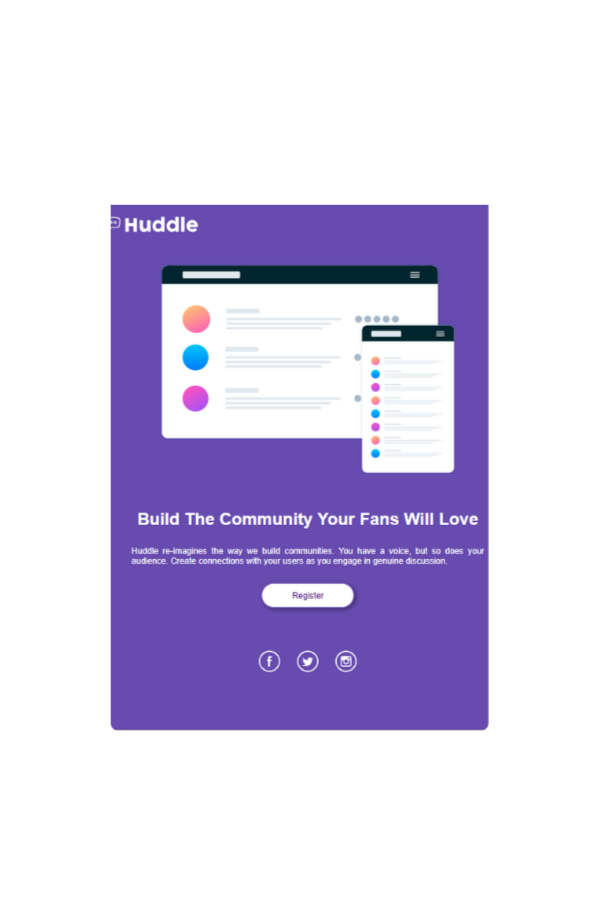
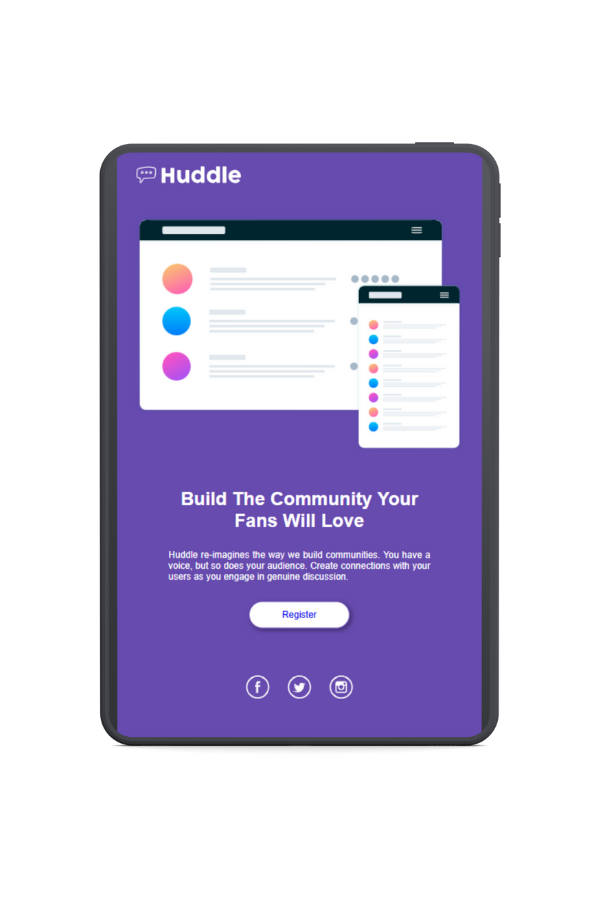
Paquetes y links actualizados

Changed region(s): [[0.15, 0.1556, 0.84, 0.84]]

diff --git a/index.html b/index.html
@@ -51,10 +51,10 @@
 <!------------------------------- Aqui comienza el Hero ------------------------------->
     <section class="hero">
         <div class="contenedor-wrapper">
-            <figure class="imagen-hero">
+            <figure class="imagen-hero" id="imagen-hero">
                 <img src="imagenes/Imagen_Hero1.png" alt="Imagen Hero" width="350px" height="auto">
             </figure>
-            <div class="texto-hero">
+            <div class="texto-hero" id="texto-hero">
                 <h1>Tu Negocio Listo para Dominar la Web.</h1>
                 <p>Hola, soy <strong>EMwebdesigner</strong>, Desarrollador Web. Transformo ideas de negocio en plataformas 
                     digitales visibles, dinámicas y accesibles que funcionan perfectamente en cualquier 
@@ -106,40 +106,58 @@
 
             <section id="precios-paquetes">
                 <h2>Precios y Paquetes</h2>
-                <p>Elige el paquete perfecto para ti y comienza tu viaje digital hoy mismo.</p>
+                <p class="subtitulo-paquetes">Elige el paquete perfecto para ti y comienza tu viaje digital hoy mismo.</p>
                 <div class="bloques-paquetes">
                     <div class="paquete">
-                        <h3>Básico</h3>
-                        <p>$300</p>
-                        <ul>
-                            <li>Diseño Web Personalizado</li>
-                            <li>Hasta 5 Páginas</li>
-                            <li>Optimización SEO Básica</li>
-                            <li>Soporte por 1 Mes</li>
-                        </ul>
-                        <a href="#" class="btn-paquete">Seleccionar</a>
+
+                        <div class="contenido-paquete">
+                            <h3>Básico</h3>
+                            <p class="precio">49.99$</p>
+                            <ul>
+                                <li>Pagina Web/Landing Page</li>
+                                <li>Diseño Web Personalizado</li>
+                                <li>Hasta 8 secciones</li>
+                                <li>Optimización SEO Básica</li>
+                                <li>Administracion y carga de contenido en Hosting</li>
+                                <li>Seguridad Certificado SSL</li>
+                                <li>Copia y Actualizaciones de Seguridad</li>
+                            </ul>
+                            <h4 class="mtto">Mantenimiento mensual (Alojamiento  + Cambios personalizados): 14.99$</h4>
+                        </div>
+                        <a href="https://wa.link/l1xqnm" class="btn-paquete" target="_blank" rel="noopener noreferrer">Seleccionar</a>
+
                     </div>
                     <div class="paquete">
-                        <h3>Estándar</h3>
-                        <p>$600</p>
-                        <ul>
-                            <li>Diseño Web Avanzado</li>
-                            <li>Hasta 10 Páginas</li>
-                            <li>Optimización SEO Completa</li>
-                            <li>Soporte por 3 Meses</li>
-                        </ul>
-                        <a href="#" class="btn-paquete">Seleccionar</a>
+
+                        <div class="contenido-paquete">
+                            <h3>Estándar</h3>
+                            <p class="precio">179.99$</p>
+                            <ul>
+                                <li>Paquete Básico</li>
+                                <li>Diseño Web Avanzado</li>
+                                <li>Hasta 5 páginas completas</li>
+                                <li>Optimización SEO Completa (configuración de títulos, descripciones y URLs amigables)</li>
+                                <li>Alojamiento Web (Hosting) de alta velocidad por 1 mes GRATIS.</li>
+                            </ul>
+                            <h4 class="mtto">Mantenimiento mensual (Alojamiento  + Cambios personalizados): 24.99$</h4>
+                        </div>
+                        <a href="https://wa.link/tahb53" class="btn-paquete" target="_blank" rel="noopener noreferrer">Seleccionar</a>
+                        
                     </div>
                     <div class="paquete">
-                        <h3>Premium</h3>
-                        <p>$1000</p>
-                        <ul>
-                            <li>Diseño Web Premium</li>
-                            <li>Páginas Ilimitadas</li>
-                            <li>Estrategia de Marketing Digital</li>
-                            <li>Soporte por 6 Meses</li>
-                        </ul>
-                        <a href="#" class="btn-paquete">Seleccionar</a>
+                        <div class="contenido-paquete">
+                            <h3>Premium</h3>
+                            <p class="precio">329.99$</p>
+                            <ul>
+                                <li>Paquete Estándar</li>
+                                <li>Diseño Web Premium</li>
+                                <li>Hasta 10 páginas completas</li>
+                                <li>Estrategia de Marketing Digital</li>
+                                <li>Alojamiento Web (Hosting) de alta velocidad por 3 mes GRATIS</li>
+                            </ul>
+                            <h4 class="mtto">Mantenimiento mensual (Alojamiento  + Cambios personalizados): 42.99$</h4>
+                        </div>
+                        <a href="https://wa.link/0ur04m" class="btn-paquete" target="_blank" rel="noopener noreferrer">Seleccionar</a>
                     </div>
                 </div>
             </section>
@@ -181,6 +199,12 @@
                     <a href="https://wa.link/rl7ps6" target="_blank" rel="noopener noreferrer" data-icon="WhatsApp" aria-label="WhatsApp">
                         <svg fill="currentColor" width="32px" height="32px" viewBox="0 0 16 16" xmlns="http://www.w3.org/2000/svg"><g id="SVGRepo_bgCarrier" stroke-width="0"></g><g id="SVGRepo_tracerCarrier" stroke-linecap="round" stroke-linejoin="round"></g><g id="SVGRepo_iconCarrier"><path d="M11.42 9.49c-.19-.09-1.1-.54-1.27-.61s-.29-.09-.42.1-.48.6-.59.73-.21.14-.4 0a5.13 5.13 0 0 1-1.49-.92 5.25 5.25 0 0 1-1-1.29c-.11-.18 0-.28.08-.38s.18-.21.28-.32a1.39 1.39 0 0 0 .18-.31.38.38 0 0 0 0-.33c0-.09-.42-1-.58-1.37s-.3-.32-.41-.32h-.4a.72.72 0 0 0-.5.23 2.1 2.1 0 0 0-.65 1.55A3.59 3.59 0 0 0 5 8.2 8.32 8.32 0 0 0 8.19 11c.44.19.78.3 1.05.39a2.53 2.53 0 0 0 1.17.07 1.93 1.93 0 0 0 1.26-.88 1.67 1.67 0 0 0 .11-.88c-.05-.07-.17-.12-.36-.21z"></path><path d="M13.29 2.68A7.36 7.36 0 0 0 8 .5a7.44 7.44 0 0 0-6.41 11.15l-1 3.85 3.94-1a7.4 7.4 0 0 0 3.55.9H8a7.44 7.44 0 0 0 5.29-12.72zM8 14.12a6.12 6.12 0 0 1-3.15-.87l-.22-.13-2.34.61.62-2.28-.14-.23a6.18 6.18 0 0 1 9.6-7.65 6.12 6.12 0 0 1 1.81 4.37A6.19 6.19 0 0 1 8 14.12z"></path></g></svg>
                     </a>
+                    <a href="https://github.com/EMwebdesigner?tab=repositories" target="_blank" rel="noopener noreferrer" data-icon="GitHub" aria-label="GitHub">
+                        <svg width="32px" height="32px" viewBox="0 0 48 48" version="1.1" id="Shopicons" xmlns="http://www.w3.org/2000/svg" x="0" y="0" xml:space="preserve" fill="#ffffff"><g id="SVGRepo_bgCarrier" stroke-width="0"></g><g id="SVGRepo_tracerCarrier" stroke-linecap="round" stroke-linejoin="round"></g><g id="SVGRepo_iconCarrier"> <style>.st1{fill:#ffffff}.st2,.st3{fill:none;stroke:#ffffff;stroke-width:4;stroke-miterlimit:10}.st3{stroke-width:6}</style> <g id="github_00000178918564504449926280000008731996709616696990_"> <path d="M0 .011h48v48H0v-48z" fill="none"></path> <path d="M30 44.004v-10c0-.884-.197-1.722-.542-2.479.825-.167 1.65-.358 2.472-.601 2.527-.746 6.154-3.839 7.226-6.863 1.188-3.356 1.188-6.76 0-10.116l-.001-.001c-.213-.603-.537-1.211-.998-1.868.848-3.154.253-5.792.225-5.915l-.365-1.564-1.606.019c-.15.002-3.48.063-6.724 1.955a29.635 29.635 0 0 0-11.371 0c-3.243-1.892-6.573-1.953-6.724-1.955l-1.608-.019-.365 1.564c-.028.123-.623 2.761.225 5.915-.461.657-.785 1.266-.999 1.869-1.187 3.356-1.187 6.76.001 10.117 1.07 3.023 4.697 6.116 7.225 6.862.822.243 1.647.434 2.472.601A5.946 5.946 0 0 0 18 34.004v1.281c-.062.036-.127.065-.187.108-.289.211-2.869 1.967-5.505.09-.93-.946-1.386-1.639-1.826-2.309-.988-1.5-1.841-2.586-4.588-3.96a2 2 0 1 0-1.789 3.579c1.991.995 2.341 1.525 3.035 2.581.515.781 1.155 1.754 2.445 3.044l.215.186c1.692 1.27 3.447 1.723 5.053 1.723A9.286 9.286 0 0 0 18 39.76v4.253l12-.009z"></path> </g> </g></svg>
+                    </a>
+                    <a href="https://app.netlify.com/teams/endertucon3/projects" target="_blank" rel="noopener noreferrer" data-icon="Netlify" aria-label="Netlify">
+                        <svg fill="#ffffff" width="32px" height="32px" viewBox="0 0 24 24" role="img" xmlns="http://www.w3.org/2000/svg"><g id="SVGRepo_bgCarrier" stroke-width="0"></g><g id="SVGRepo_tracerCarrier" stroke-linecap="round" stroke-linejoin="round"></g><g id="SVGRepo_iconCarrier"><title>Netlify icon</title><path d="M16.934 8.519a1.044 1.044 0 0 1 .303.23l2.349-1.045-2.192-2.171-.491 2.954zM12.06 6.546a1.305 1.305 0 0 1 .209.574l3.497 1.482a1.044 1.044 0 0 1 .355-.177l.574-3.55-2.13-2.234-2.505 3.852v.053zm11.933 5.491l-3.748-3.748-2.548 1.044 6.264 2.662s.053.042.032.042zm-.627.606l-6.013-2.569a1.044 1.044 0 0 1-.7.407l-.647 3.957a1.044 1.044 0 0 1 .303.731l3.633.762 3.33-3.31v-.062zM15.4 9.25L12.132 7.86a1.2 1.2 0 0 1-1.044.543h-.199L8.185 12.58l7.225-3.132v.01a.887.887 0 0 1 0-.167.052.052 0 0 0-.01-.041zm3.967 7.308l-3.195-.658a1.096 1.096 0 0 1-.46.344l-.761 4.72 4.437-4.396s-.01.02-.021.02zm-4.469-.324a1.044 1.044 0 0 1-.616-.71l-5.95-1.222-.084.136 5.398 7.81.323-.324.919-5.67s.031.022.01.011zm-6.441-2.652l5.878 1.211a1.044 1.044 0 0 1 .824-.522l.637-3.894-.135-.115-7.308 3.132a1.817 1.817 0 0 1 .104.188zm-2.464.981l-.125-.125-2.537 1.044 1.232 1.222 1.399-2.172zm1.67.397a1.368 1.368 0 0 1-.563.125 1.389 1.389 0 0 1-.45-.073l-1.544 2.245 6.765 6.702 1.19-1.18zm-.95-2.641a1.702 1.702 0 0 1 .314 0 1.378 1.378 0 0 1 .344 0l2.735-4.25a1.19 1.19 0 0 1-.334-.824 1.242 1.242 0 0 1 0-.271l-3.32-1.535-2.672 2.6zm.303-7.402l3.237 1.378a1.242 1.242 0 0 1 .835-.282 1.357 1.357 0 0 1 .397.063l2.526-3.947L11.923.041 7.016 4.854s-.01.052 0 .063zm-1.21 8.164a1.566 1.566 0 0 1 .24-.334L3.278 8.613 0 11.797l5.804 1.284zm-.262.7L.533 12.735l2.203 2.235 2.777-1.18z"></path></g></svg>
+                    </a>
                 </div>
             </div>
 
@@ -206,12 +230,12 @@
                 </ul>
             </div>
             <div class="footer-column">
-                <h3>Compañía</h3>
+                <h3>Proyectos</h3>
                 <ul class="footer-links">
-                    <li><a href="#">Sobre nosotros</a></li>
-                    <li><a href="#portafolio">Portafolio</a></li>
-                    <li><a href="https://wa.link/rl7ps6" target="_blank" rel="noopener noreferrer" data-icon="WhatsApp" aria-label="WhatsApp">Contacto</a></li>
-                    <li><a href="#">Perfil en Google</a></li>
+                    <li><a href="https://emwebdesigner.github.io/Web-Centro-Pokemon/" target="_blank" rel="noopener noreferrer">CentroPokémon</a></li>
+                    <li><a href="https://emwebdesigner.github.io/Proyecto-landing-page/#" target="_blank" rel="noopener noreferrer">Huddle subscription</a></li>
+                    <li><a href="https://emwebdesigner.github.io/LP-Newsletter-sign-up/" target="_blank" rel="noopener noreferrer">Newsletter sign-up</a></li>
+                    <!-- <li><a href="#">Perfil en Google</a></li> -->
                 </ul>
             </div>
 

diff --git a/estilos.css b/estilos.css
@@ -4,6 +4,7 @@
     --c_primario: #fff;
     --c_secundario: rgba(0, 0, 0, 0.9);
     --c_terciario: #004aad; 
+    --c_texto-hero: rgba(255, 255, 255, 0.9);
     --c_texto: #333333;
     --c_titulo: #d2d2d2c8;
     --c_enlaces: #f5f5f5;
@@ -33,9 +34,11 @@ h1, h2, h3, h4, h5, h6{
     font-family: var(--f_familySecondary);
 }
 
-h2 {font-size: 1.6rem;
+h2 {font-size: 1.8rem;
     text-align: center;
-    padding-block: 20px;}
+    padding-block: 20px 0px;
+    margin-bottom: 20px;
+    border-bottom: 2px solid var(--c_bloqueServicio);}
 
 a, button{  text-decoration: none;
     color: var(--c_enlaces);
@@ -115,6 +118,7 @@ header{background-color: var(--c_secundario);
     background-image: url(imagenes/bg_Hero1.png);
     background-size: cover;
     background-position: center;
+    overflow: hidden;  /*animacion-hero*/
 
     & .contenedor-wrapper{max-width: 1400px;
                           margin-inline: 6%;
@@ -124,15 +128,37 @@ header{background-color: var(--c_secundario);
                           align-items: center;
                           justify-content: center;
 
-        & .imagen-hero {
+        & .imagen-hero {opacity: 0;  /*animacion-hero*/
+                        transform: translateX(-100px); /*animacion-hero*/
+                        transition: all 0.8s ease-out; /*animacion-hero*/
 
             & img {
                 width: 256px;
             }
         }
 
-        & .texto-hero {
-            text-align: center;
+        & .imagen-hero.animate {
+                            opacity: 1;
+                            transform: translateX(0);
+            }
+
+        & .texto-hero.animate {
+                            opacity: 1;
+                            transform: translateX(0);
+                            transition-delay: 0.3s;
+        }
+
+
+
+        & .texto-hero {background-color: var(--c_texto-hero);
+                        text-align: center;
+                        margin-top: 40px;
+                        padding: 30px 20px;
+                        border-radius: 10px;
+                        opacity: 0;  /*animacion-hero*/
+                        transform: translateX(-100px); /*animacion-hero*/
+                        transition: all 0.8s ease-out; /*animacion-hero*/
+
 
             & h1 {
                 font-size: 1.4rem;
@@ -197,7 +223,7 @@ header{background-color: var(--c_secundario);
             }
         }
 
-        & #servicios{padding-block: 20px;
+        & #servicios{padding-block: 40px 20px;
                      text-align: justify;
                      overflow: hidden;
 
@@ -246,7 +272,7 @@ header{background-color: var(--c_secundario);
         & #precios-paquetes {padding-block: 20px;
 
 
-            & p {text-align: center;
+            & .subtitulo-paquetes {text-align: center;
                     margin-bottom: 20px;
             }
 
@@ -258,40 +284,52 @@ header{background-color: var(--c_secundario);
                 & .paquete{border: 1px solid var(--c_secundario);
                             border-radius: 8px;
                             padding: 20px;
+                            margin-top: 20px;
                             width: 300px;
                             background-color: var(--c_primario);
                             box-shadow: 0 4px 6px rgba(0, 0, 0, 0.1);
+                            display: flex;
+                            flex-direction: column;
+                            justify-content: space-between;
 
-                    & h3 {text-align: center;
-                            margin-bottom: 15px;
-                    }
+                    
+                    & .contenido-paquete {
 
-                    & ul {list-style-type: disc;
-                            margin-left: 20px;
-                            margin-bottom: 15px;
+                            & h3 {text-align: center;
+                            }
 
-                        & li {margin-bottom: 8px;}
-                    }
+                            & .precio {font-size: 1.2rem;
+                                        font-weight: bold;
+                                        text-align: center;
+                                        padding-block: 0.6rem 1rem;
+                            }
 
-                    & .precio {font-size: 1.5rem;
-                                font-weight: bold;
-                                text-align: center;
-                                margin-bottom: 15px;
+
+                            & ul {list-style-type: disc;
+                                    margin-left: 20px;
+
+
+                                & li {margin-bottom: 8px;
+                                    font-size: 0.9rem;}
+                            }
+
+                            & .mtto {text-align: center;
+                                    font-size: 0.9rem;
+                                    padding-block: 1rem;}
+
                     }
 
                     & a {display: block;
-                            text-align: center;
-                            padding: 10px 15px;
-                            background-color: var(--c_terciario);
-                            color: var(--c_primario);
-                            border-radius: 40px;
+                                    text-align: center;
+                                    padding: 10px 15px;
+                                    background-color: var(--c_terciario);
+                                    color: var(--c_primario);
+                                    border-radius: 40px;
                     }
 
                     & a:hover {background-color: var(--c_secundario);}
                 }
             }
-
-
         }
 
 
@@ -356,10 +394,21 @@ header{background-color: var(--c_secundario);
 
                 & a:nth-child(3){
 
-                    & svg:hover {fill: rgb(67, 199, 67);} /* WhatsApp */
+                    & svg:hover {fill: #38D956;} /* WhatsApp */
 
                 }
 
+                & a:nth-child(4){
+
+                    & svg:hover {fill: rgb(115, 114, 114);} /* GitHub */
+
+                }
+
+                & a:nth-child(5){
+
+                    & svg:hover {fill: #27C8B9} /* Netlify */
+
+                }
     
                 & a:nth-child(2){position: relative;
                                   top: 5px;}
@@ -380,7 +429,6 @@ header{background-color: var(--c_secundario);
                         font-size: 0.85rem;
                         color: #fff;
 
-                    & a {}
 
                     & a:hover {color: var(--c_terciario);}
 

diff --git a/main.js b/main.js
@@ -9,3 +9,43 @@ abrir.addEventListener('click', () => {
 cerrar.addEventListener('click', () => {
     nav.classList.remove('visible');
 });
+
+
+
+//------------------ Efecto del Hero section -------------------------
+
+// JavaScript para activar la animación
+document.addEventListener('DOMContentLoaded', function() {
+    const imagenHero = document.getElementById('imagen-hero');
+    const textoHero = document.getElementById('texto-hero');
+    
+    // Función para verificar si el elemento está visible
+    function isInViewport(element) {
+        const rect = element.getBoundingClientRect();
+        return (
+            rect.top >= 0 &&
+            rect.left >= 0 &&
+            rect.bottom <= (window.innerHeight || document.documentElement.clientHeight) &&
+            rect.right <= (window.innerWidth || document.documentElement.clientWidth)
+        );
+    }
+    
+    // Función para animar los elementos
+    function animateHero() {
+        if (isInViewport(imagenHero) || window.scrollY < 100) {
+            imagenHero.classList.add('animate');
+            textoHero.classList.add('animate');
+            // Remover el listener después de animar
+            window.removeEventListener('scroll', animateHero);
+        }
+    }
+    
+    // Animar inmediatamente si ya está visible
+    setTimeout(() => {
+        animateHero();
+    }, 100);
+    
+    // También verificar en scroll por si el usuario recarga a mitad de página
+    window.addEventListener('scroll', animateHero);
+});
+    
